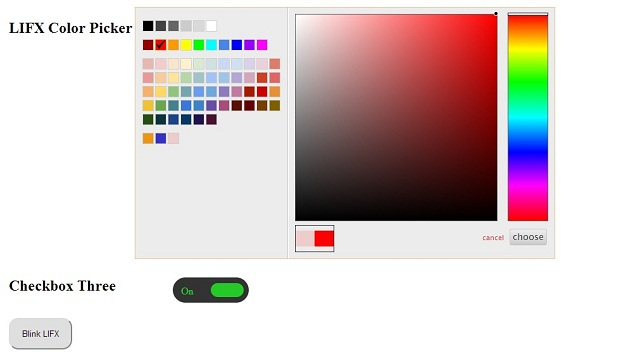
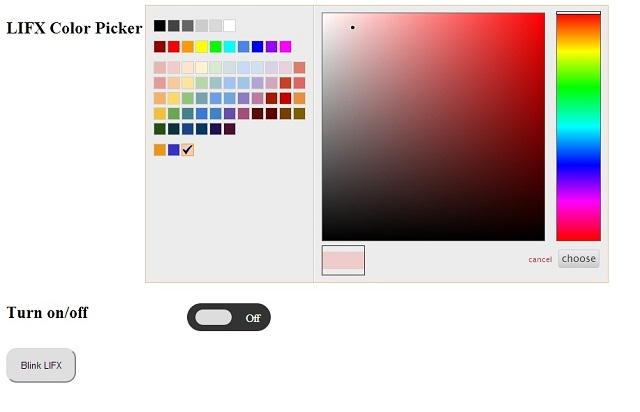
README.md changed
README.md changed

diff --git a/web/index.html b/web/index.html
@@ -200,7 +200,7 @@
 				<td valign="top"><input id="full"></td>
 			</tr>
 			<tr>
-				<td valign="top"><h2>Checkbox Three</h2></td>
+				<td valign="top"><h2>Turn on/off</h2></td>
 				<td valign="top">
 					<div class="checkboxThree">
 							<input type="checkbox" value="1" id="checkboxThreeInput" name="" onchange="turnOn(this.checked)"/>

diff --git a/README.md b/README.md
@@ -11,17 +11,23 @@ I have this node.js server running on my Raspberry PI which is connected to the 
 Merely controlling the bulb from outside network is not that exciting, but Spark Core can do lot of amazing things and controlling LIFX from Spark Core is good idea. We can use the LIFX as a notification device, say you are monitoring the temperature of a room and if the temperature is not within the limit Spark Core can blink the bulb or change the color, etc...
 
 **Installation**
-1. Download and Install Node.js from [this link][5]
-2. Download the node.js server from https://github.com/krvarma/LIFX_SparkCore and extract
-3. Goto the folder and run `npm install`. Since it contains the package.json file, it will install all the dependencies
-4. Run `node lifx.js`
-5. Flash the Spark Core with one of the example
-6. Connect LIFX and wait for the bulb to connect to the network
+
+ 1. Download and Install Node.js from [this link][5] 
+ 2. Download the node.js server from https://github.com/krvarma/LIFX_SparkCore and extract 
+ 3. Goto the folder and run `npm install`. Since it contains the package.json file, it will install all the dependencies 
+ 4. Run `node lifx.js` 
+ 5. Flash the Spark Core with one of the example 
+ 6. Connect LIFX and wait for the bulb to connect to the network
 
 There are two samples, one is the to play with the colors, turn on, blink, etc... Another example uses TSL2561 Light sensor to watch te light level and turn the LIFX red when it is below a particular level and turn green when above the level. The sample one comes with a Web Page to control the bulb. You can use this web page to set the color, turn on/off and blink the bulb (don't forget to replace the *deviceid* and *accesstoken* with actual values).
 
 **Screenshots**
 
+*Web Page*
+![enter image description here][6]
+
+*Spark Core Sample Two* 
+![enter image description here][7]
 
 
   [1]: https://community.spark.io/t/mqtt-library-and-sample/2111
@@ -29,3 +35,5 @@ There are two samples, one is the to play with the colors, turn on, blink, etc..
   [3]: https://github.com/magicmonkey/lifxjs
   [4]: http://iot.eclipse.org/sandbox.html
   [5]: http://nodejs.org/
+  [6]: https://raw.githubusercontent.com/krvarma/LIFX_SparkCore/master/screenshots/web.jpg
+  [7]: https://raw.githubusercontent.com/krvarma/LIFX_SparkCore/master/screenshots/spark.JPG
